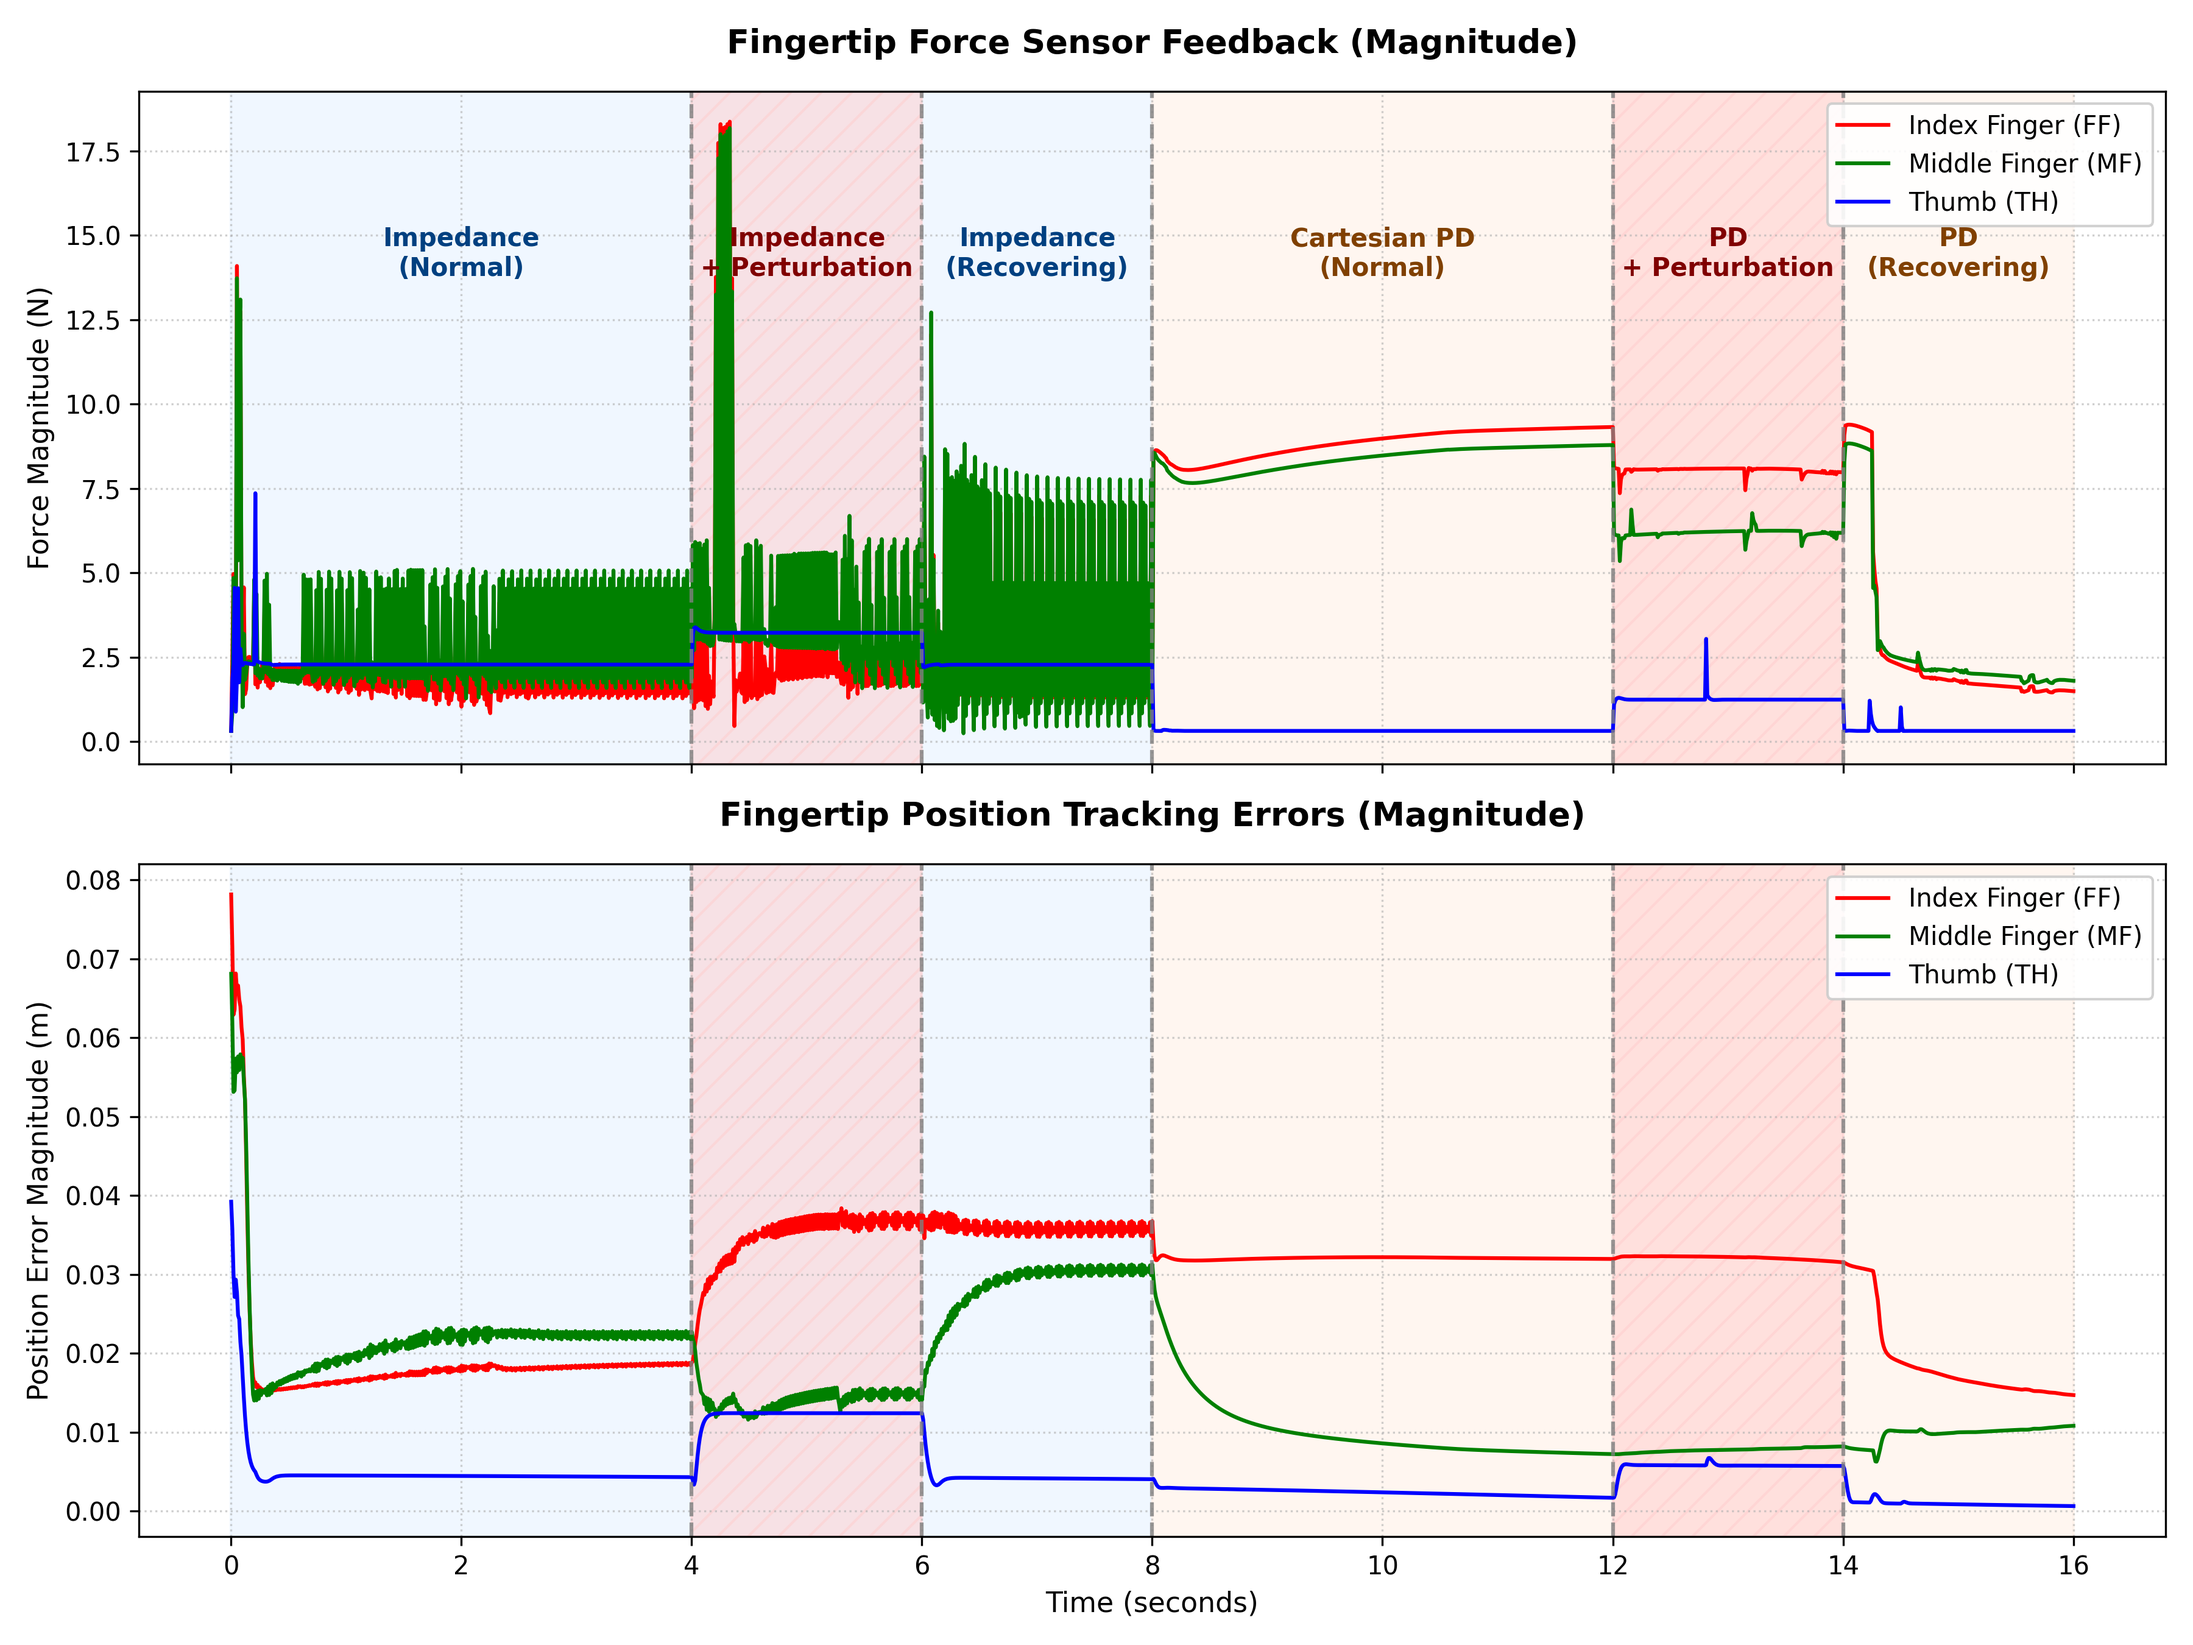
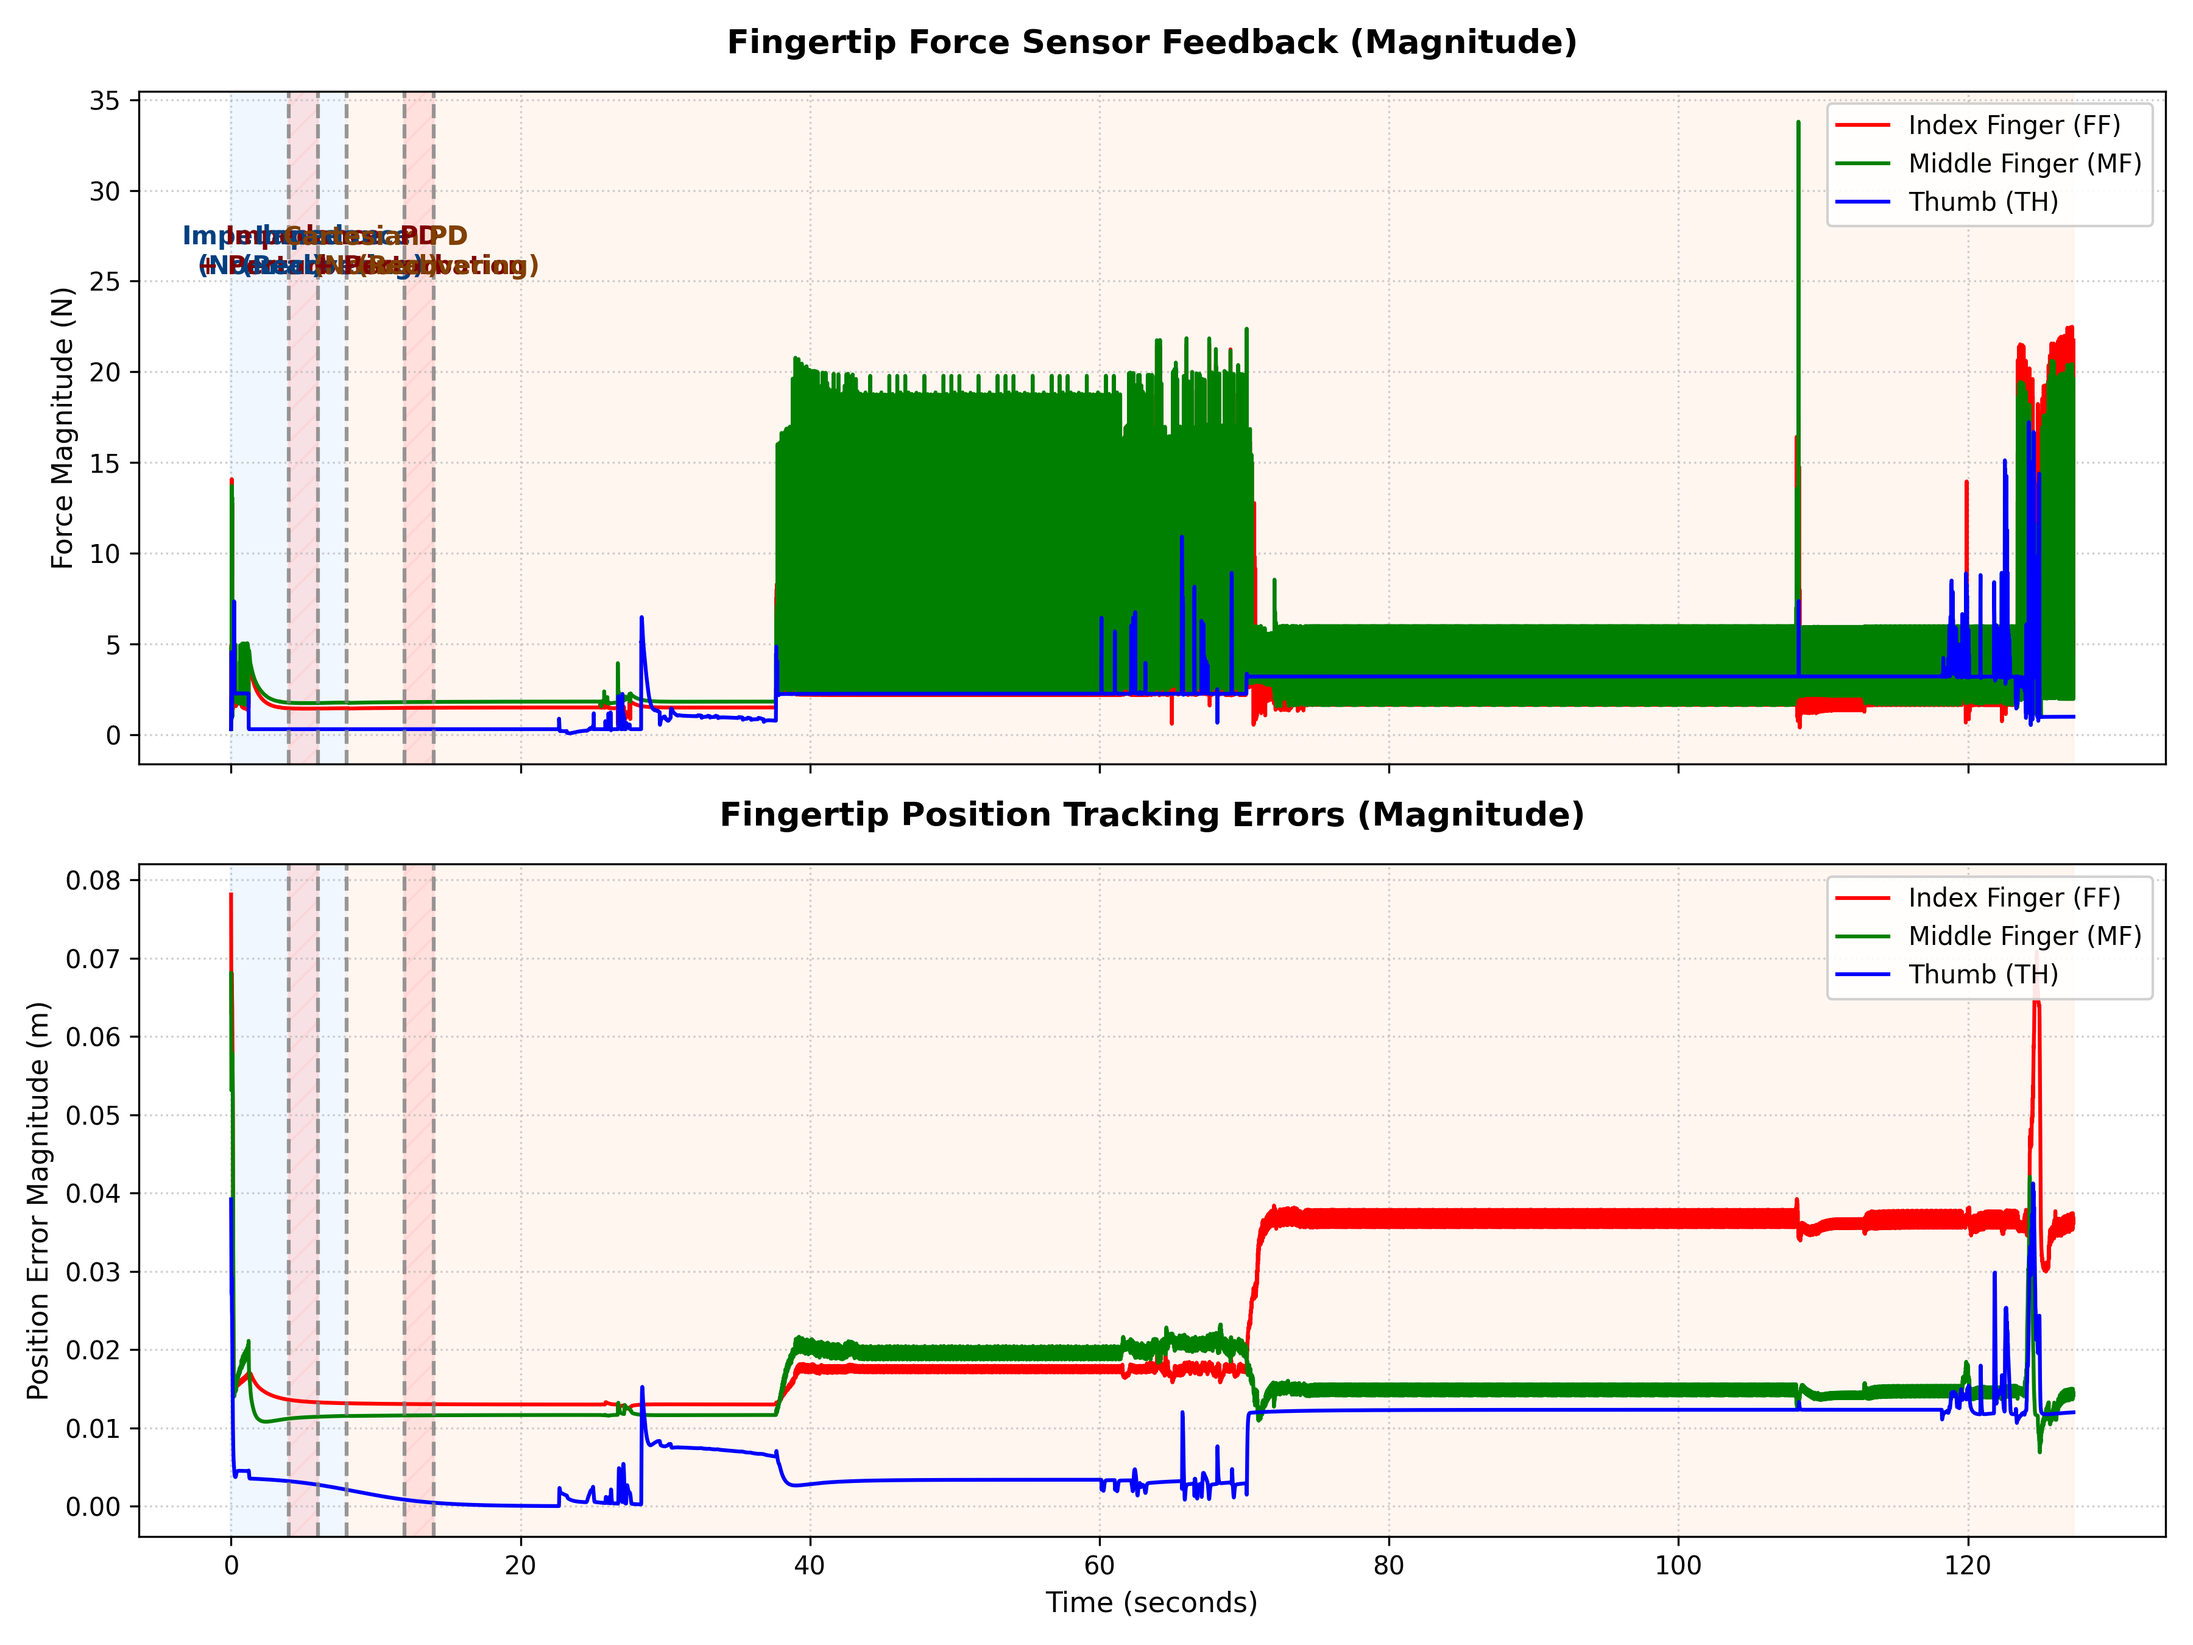
상자 파지 시뮬레이션 구현 및 파지력 비교 분석 그래프 추가

diff --git a/MuJoCo/dclaw_sim_standalone.py b/MuJoCo/dclaw_sim_standalone.py
@@ -48,10 +48,12 @@ def main():
     # The mount is at z = 0.30, and fingers point downward.
     # The target ball is spawned at [0, 0, 0.07] with radius 0.04 (top of ball is at z = 0.11).
     # We set goals around/inside the ball to pinch or touch it.
+    # Set goals slightly inside the box boundary to squeeze it
+    # Squeezing the static pillar (base center at [0, 0, 0.04], box size x/y is 5cm, height is 8cm)
     goals = np.array([
-        [0.0, -0.02, 0.08],  # FFtip goal (front-ish)
-        [0.025, 0.015, 0.08], # MFtip goal (right-ish)
-        [-0.025, 0.015, 0.08] # THtip goal (left-ish)
+        [0.0, -0.015, 0.05],  # FFtip goal (squeezing in from front)
+        [0.015, 0.010, 0.05],  # MFtip goal (squeezing in from back-right)
+        [-0.015, 0.010, 0.05]  # THtip goal (squeezing in from back-left)
     ])
     
     # 5. Controller Gains and Impedance Parameters
@@ -83,12 +85,29 @@ def main():
     print("Close the viewer window to view performance plots.")
     print("Press Ctrl+C in the terminal to exit.\n")
     
-    # Launch the passive viewer
-    with mujoco.viewer.launch_passive(model, data) as viewer:
+    # Control settings for manual interaction
+    control_settings = {
+        "use_impedance_control": True,
+        "interactive_mode": False
+    }
+    
+    def key_callback(keycode):
+        try:
+            key_char = chr(keycode).lower()
+            if key_char == 'm':
+                control_settings["use_impedance_control"] = not control_settings["use_impedance_control"]
+                control_settings["interactive_mode"] = True
+                mode_str = "Impedance Control" if control_settings["use_impedance_control"] else "Cartesian PD Control"
+                print(f"\n>>> [MANUAL MODE] Control mode toggled to: {mode_str} <<<\n")
+        except ValueError:
+            pass
+
+    # Launch the passive viewer with key callback
+    with mujoco.viewer.launch_passive(model, data, key_callback=key_callback) as viewer:
         # Initial visualization settings
         with viewer.lock():
             viewer.opt.flags[mj.mjtVisFlag.mjVIS_CONTACTFORCE] = 0
-            # Enable geom group 3 (where the target ball is defined)
+            # Enable geom group 3 (where the target ball/box is defined)
             viewer.opt.geomgroup[3] = 1
             
             # Draw visual markers for fingertip goals
@@ -103,75 +122,39 @@ def main():
                 # Position the marker
                 viewer.user_scn.geoms[viewer.user_scn.ngeom - 1].pos = goal
                 viewer.user_scn.geoms[viewer.user_scn.ngeom - 1].size = [0.008, 0, 0]
-                
-            # Draw visual markers for perturbation forces (initially hidden/transparent)
-            force_geom_indices = []
-            for _ in range(3):
-                viewer.user_scn.ngeom += 1
-                force_geom_indices.append(viewer.user_scn.ngeom - 1)
-                mj.mjv_initGeom(
-                    viewer.user_scn.geoms[viewer.user_scn.ngeom - 1],
-                    mj.mjtGeom.mjGEOM_CAPSULE,
-                    np.zeros(3), np.zeros(3), np.zeros(9),
-                    np.array([0.9, 0.1, 0.1, 0.0]) # Fully transparent red
-                )
         
         step_count = 0
         
         # Log array for control modes
         mode_log = []
-        perturbation_log = []
         
+        print("\n=== INTERACTIVE GRASPING SIMULATION STARTED ===")
+        print("Press 'M' key to manually toggle control mode (Impedance <-> Cartesian PD)")
+        print("==============================================\n")
+
         while viewer.is_running():
             step_start = time.perf_counter()
             t = data.time
             
-            # 16-second automated presentation scenario
-            if t >= 16.0:
-                print("\nAutomated presentation scenario completed. Exiting simulation...")
-                break
-                
-            # Determine control mode dynamically based on time
-            if t < 8.0:
-                use_impedance_control = True
+            # Scenario management (automated unless user interacts manually)
+            if not control_settings["interactive_mode"]:
+                if t >= 16.0:
+                    print("\nAutomated presentation scenario completed. Exiting simulation...")
+                    break
+                    
+                # 0~8s is Impedance Grasping, 8~16s is Cartesian PD Grasping
+                if t < 8.0:
+                    use_impedance_control = True
+                else:
+                    use_impedance_control = False
             else:
-                use_impedance_control = False
-                
-            # Determine perturbation force (Apply a 1.2N force in Y-direction during perturbation phases)
-            perturbation_force = 0.0
-            if (4.0 <= t < 6.0) or (12.0 <= t < 14.0):
-                perturbation_force = 1.2
-                
-            # Reset and apply external force to fingertips
-            for body_id in end_effector_ids:
-                # Apply global wrench: [Fx, Fy, Fz, Tx, Ty, Tz]
-                data.xfrc_applied[body_id] = np.array([0.0, perturbation_force, 0.0, 0.0, 0.0, 0.0])
-                
-            # Render red force indicator capsules in the viewer
-            with viewer.lock():
-                for idx, tip in enumerate(tips):
-                    geom_idx = force_geom_indices[idx]
-                    if perturbation_force > 0:
-                        # Draw a red capsule pointing in the direction of the force (applied in Y, pushing from -Y to +Y)
-                        start_pos = data.site(tip).xpos
-                        # Draw capsule representing the force pushing on the finger
-                        mj.mjv_connector(
-                            viewer.user_scn.geoms[geom_idx],
-                            mj.mjtGeom.mjGEOM_CAPSULE,
-                            0.003, # width
-                            start_pos - np.array([0.0, 0.04, 0.0]), # from
-                            start_pos # to
-                        )
-                        viewer.user_scn.geoms[geom_idx].rgba = np.array([0.9, 0.1, 0.1, 0.8])
-                    else:
-                        viewer.user_scn.geoms[geom_idx].rgba = np.array([0, 0, 0, 0])
-                        viewer.user_scn.geoms[geom_idx].size = np.zeros(3)
+                # Manual mode (read settings modified by keyboard callback)
+                use_impedance_control = control_settings["use_impedance_control"]
             
             # Console output every 1.0 second
             if step_count % 1000 == 0:
                 mode_str = "Impedance Control" if use_impedance_control else "Cartesian PD Control"
-                force_str = f"ON (+{perturbation_force:.1f}N Y-axis)" if perturbation_force > 0 else "OFF"
-                print(f"Time: {t:4.1f}s | Mode: {mode_str:<18} | Ext Force: {force_str}")
+                print(f"Time: {t:4.1f}s | Squeezing Mode: {mode_str}")
                 
             # Initialize joint torque vector for the robot (9 actuators)
             tau_ctrl = np.zeros(n_actuators)
@@ -262,7 +245,6 @@ def main():
                 errors_log.append(ee_errors_step)
                 time_log.append(data.time)
                 mode_log.append(use_impedance_control)
-                perturbation_log.append(perturbation_force)
             
             step_count += 1
             
@@ -280,7 +262,6 @@ def main():
     errors_log = np.array(errors_log)
     time_log = np.array(time_log)
     mode_log = np.array(mode_log)
-    perturbation_log = np.array(perturbation_log)
     
     # Calculate force and error magnitudes for each fingertip
     forces_ff = np.linalg.norm(forces_log[:, 0:3], axis=1)
@@ -297,8 +278,8 @@ def main():
     axes[0].plot(time_log, forces_ff, 'r-', linewidth=1.5, label='Index Finger (FF)')
     axes[0].plot(time_log, forces_mf, 'g-', linewidth=1.5, label='Middle Finger (MF)')
     axes[0].plot(time_log, forces_th, 'b-', linewidth=1.5, label='Thumb (TH)')
-    axes[0].set_ylabel("Force Magnitude (N)", fontsize=11)
-    axes[0].set_title("Fingertip Force Sensor Feedback (Magnitude)", fontsize=13, fontweight='bold', pad=15)
+    axes[0].set_ylabel("Grasping Force Magnitude (N)", fontsize=11)
+    axes[0].set_title("Fingertip Grasping Force Feedback (Magnitude)", fontsize=13, fontweight='bold', pad=15)
     axes[0].legend(loc='upper right', framealpha=0.9)
     axes[0].grid(True, linestyle=':', alpha=0.6)
     
@@ -307,39 +288,29 @@ def main():
     axes[1].plot(time_log, errors_mf, 'g-', linewidth=1.5, label='Middle Finger (MF)')
     axes[1].plot(time_log, errors_th, 'b-', linewidth=1.5, label='Thumb (TH)')
     axes[1].set_xlabel("Time (seconds)", fontsize=11)
-    axes[1].set_ylabel("Position Error Magnitude (m)", fontsize=11)
-    axes[1].set_title("Fingertip Position Tracking Errors (Magnitude)", fontsize=13, fontweight='bold', pad=15)
+    axes[1].set_ylabel("Position Squeeze Error (m)", fontsize=11)
+    axes[1].set_title("Fingertip Position Tracking Errors during Grasping", fontsize=13, fontweight='bold', pad=15)
     axes[1].legend(loc='upper right', framealpha=0.9)
     axes[1].grid(True, linestyle=':', alpha=0.6)
     
-    # Highlight Control Phases & Perturbations on both subplots
+    # Highlight Control Phases on both subplots
     for ax in axes:
         # Phase backgrounds
         # Impedance Control Phase (0s ~ 8s)
         ax.axvspan(0, 8, color='#e6f2ff', alpha=0.6, label='Impedance Control')
-        # Cartesian PD Control Phase (8s ~ 16s)
-        ax.axvspan(8, 16, color='#fff0e6', alpha=0.6, label='Cartesian PD Control')
+        # Cartesian PD Control Phase (8s ~ end)
+        ax.axvspan(8, max(16.0, time_log[-1]), color='#fff0e6', alpha=0.6, label='Cartesian PD Control')
         
-        # Perturbation intervals (4s ~ 6s, 12s ~ 14s)
-        ax.axvspan(4, 6, color='#ffcccc', alpha=0.5, hatch='//', edgecolor='#ff9999')
-        ax.axvspan(12, 14, color='#ffcccc', alpha=0.5, hatch='//', edgecolor='#ff9999')
-        
-        # Vertical boundary lines
-        boundaries = [4.0, 6.0, 8.0, 12.0, 14.0]
-        for b in boundaries:
-            ax.axvline(x=b, color='gray', linestyle='--', alpha=0.8)
+        # Vertical boundary line between controllers
+        ax.axvline(x=8.0, color='gray', linestyle='--', alpha=0.8)
             
     # Add text labels on the top subplot to guide the presentation
     ylim_force = axes[0].get_ylim()[1]
-    axes[0].text(2.0, ylim_force * 0.75, "Impedance\n(Normal)", ha='center', va='center', fontsize=10, fontweight='bold', color='#004080')
-    axes[0].text(5.0, ylim_force * 0.75, "Impedance\n+ Perturbation", ha='center', va='center', fontsize=10, fontweight='bold', color='#800000')
-    axes[0].text(7.0, ylim_force * 0.75, "Impedance\n(Recovering)", ha='center', va='center', fontsize=10, fontweight='bold', color='#004080')
-    axes[0].text(10.0, ylim_force * 0.75, "Cartesian PD\n(Normal)", ha='center', va='center', fontsize=10, fontweight='bold', color='#804000')
-    axes[0].text(13.0, ylim_force * 0.75, "PD\n+ Perturbation", ha='center', va='center', fontsize=10, fontweight='bold', color='#800000')
-    axes[0].text(15.0, ylim_force * 0.75, "PD\n(Recovering)", ha='center', va='center', fontsize=10, fontweight='bold', color='#804000')
+    axes[0].text(4.0, ylim_force * 0.75, "Impedance Grasping\n(Compliant & Low Grasping Force)", ha='center', va='center', fontsize=11, fontweight='bold', color='#004080')
+    axes[0].text(12.0, ylim_force * 0.75, "Cartesian PD Grasping\n(Stiff & Excessive Grasping Force)", ha='center', va='center', fontsize=11, fontweight='bold', color='#804000')
     
     # Save the plot image so the user can easily copy it into their PPT
-    plot_save_path = os.path.join(os.path.dirname(os.path.abspath(__file__)), "impedance_vs_pd_plot.png")
+    plot_save_path = os.path.join(os.path.dirname(os.path.abspath(__file__)), "grasping_force_comparison.png")
     plt.tight_layout()
     plt.savefig(plot_save_path, dpi=300)
     print(f"Comparison plot saved successfully to: {plot_save_path}")
